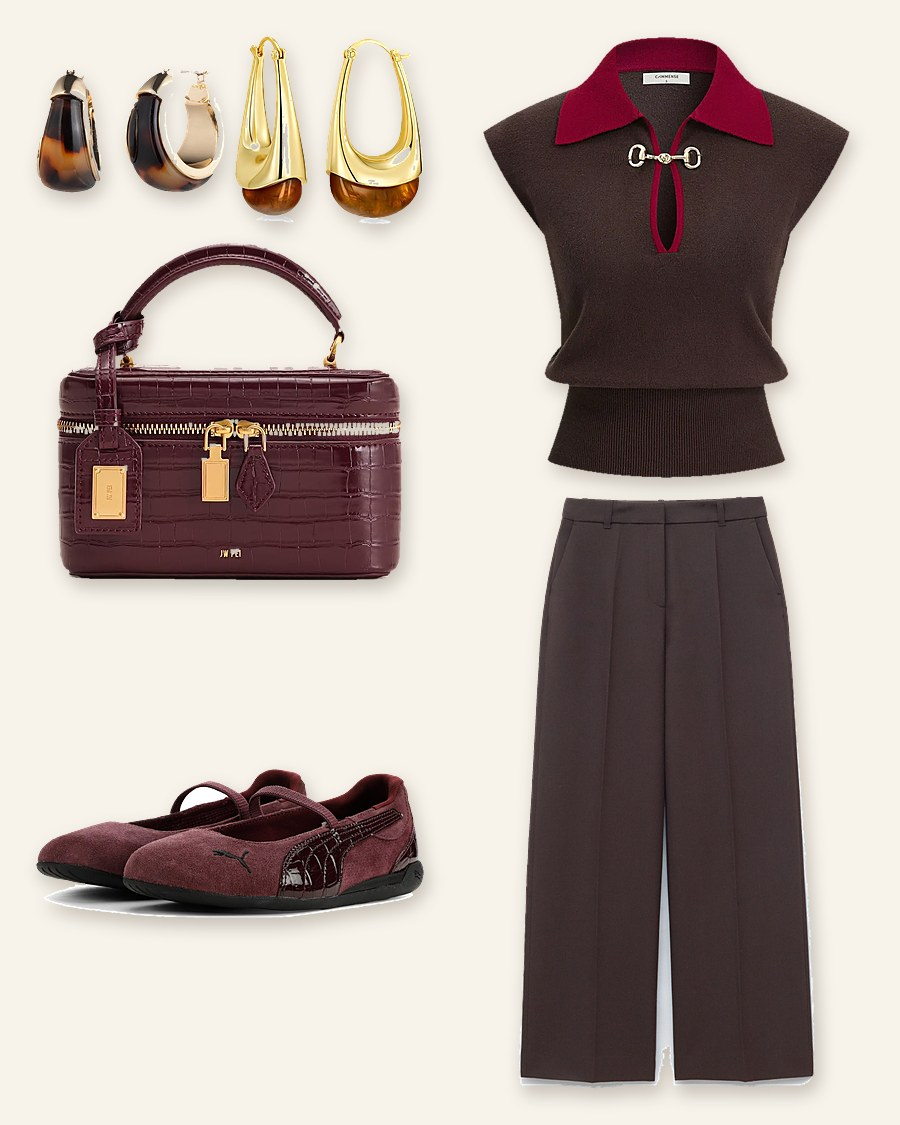
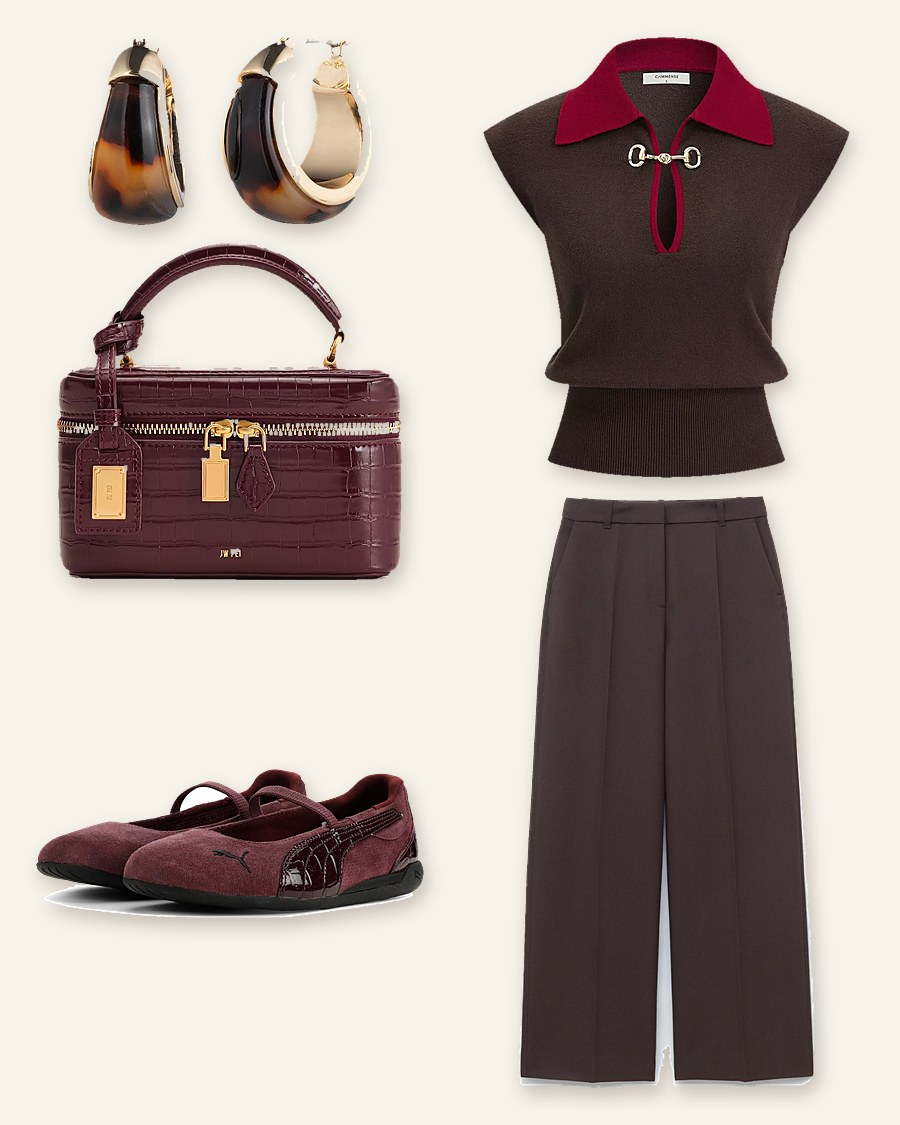
Mary Jane Monday: one pair of earrings
Claude-Session: https://claude.ai/code/session_01FUdN8BrrqRcBgv91ujUewX

Changed region(s): [[0.0311, 0.0311, 0.4978, 0.2178]]

diff --git a/lookbook.js b/lookbook.js
@@ -38,7 +38,7 @@ var LOOKBOOK = [
   {"title": "Cocoa Trench", "slug": "cocoa-trench", "pieces": ["Brown faux-leather peplum top", "Brown faux-leather skirt", "Brown leather trench coat", "Chocolate wedge gladiator sandals", "Brown suede clutch", "Chunky gold amber earrings"], "wear": ["Night out", "Dinner"], "tag": "Night out", "colors": [["Chocolate", "#4A2A1E"], ["Espresso", "#33211B"]], "caption": "A Winter Edit look: brown faux-leather peplum top, brown faux-leather skirt with brown leather trench coat, finished with chocolate wedge gladiator sandals and a brown suede clutch.", "image": "images/lookbook/art-cocoa-trench.jpg", "art": "images/lookbook/art-cocoa-trench.jpg", "alt": "HerStyleVault Edit style board: brown faux-leather peplum top, brown faux-leather skirt, brown leather trench coat, chocolate wedge gladiator sandals, brown suede clutch"},
   {"title": "Navy Stripe Set", "slug": "navy-stripe-set", "pieces": ["Navy striped shirt and black pants set", "Burgundy kitten-heel slingbacks", "Burgundy croc box bag", "Tortoise gold hoop earrings", "Chunky bangle set"], "wear": ["Day out", "Dinner"], "tag": "Day out", "colors": [["Navy", "#1E2B4F"], ["Chocolate", "#4A2A1E"]], "caption": "A Winter Edit look: navy striped shirt and black pants set, finished with burgundy kitten-heel slingbacks and a burgundy croc box bag.", "image": "images/lookbook/art-navy-stripe-set.jpg", "art": "images/lookbook/art-navy-stripe-set.jpg", "alt": "HerStyleVault Edit style board: navy striped shirt and black pants set, burgundy kitten-heel slingbacks, burgundy croc box bag, tortoise gold hoop earrings, chunky bangle set"},
   {"title": "Sporty Chic", "slug": "sporty-chic", "pieces": ["Striped half-zip knit sweater", "Black tie-belt jeans", "Green Nike Air Rift sneakers", "Burgundy croc box bag", "Tortoise gold hoop earrings", "Red Kangol cap", "Green tinted sunglasses"], "wear": ["Day out"], "tag": "Day out", "colors": [["Rust", "#964A28"], ["Black", "#1A1A1A"], ["Forest", "#1E4D36"], ["Chocolate", "#4A2A1E"]], "caption": "A Winter Edit look: striped half-zip knit sweater, black tie-belt jeans, finished with green Nike Air Rift sneakers and a burgundy croc box bag.", "image": "images/lookbook/art-sporty-chic.jpg", "art": "images/lookbook/art-sporty-chic.jpg", "alt": "HerStyleVault Edit style board: striped half-zip knit sweater, black tie-belt jeans, green Nike Air Rift sneakers, burgundy croc box bag, tortoise gold hoop earrings"},
-  {"title": "Mary Jane Monday", "slug": "mary-jane-monday", "pieces": ["Brown knit vest with red collar", "Brown tailored trousers", "Burgundy Mary Jane flats", "Burgundy croc box bag", "Tortoise gold hoop earrings", "Chunky gold amber earrings"], "wear": ["Day out", "Brunch"], "tag": "Day out", "colors": [["Chocolate", "#4A2A1E"]], "caption": "A Winter Edit look: brown knit vest with red collar, brown tailored trousers, finished with burgundy Mary Jane flats and a burgundy croc box bag.", "image": "images/lookbook/art-mary-jane-monday.jpg", "art": "images/lookbook/art-mary-jane-monday.jpg", "alt": "HerStyleVault Edit style board: brown knit vest with red collar, brown tailored trousers, burgundy Mary Jane flats, burgundy croc box bag, tortoise gold hoop earrings"},
+  {"title": "Mary Jane Monday", "slug": "mary-jane-monday", "pieces": ["Brown knit vest with red collar", "Brown tailored trousers", "Burgundy Mary Jane flats", "Burgundy croc box bag", "Tortoise gold hoop earrings"], "wear": ["Day out", "Brunch"], "tag": "Day out", "colors": [["Chocolate", "#4A2A1E"]], "caption": "A Winter Edit look: brown knit vest with red collar, brown tailored trousers, finished with burgundy Mary Jane flats and a burgundy croc box bag.", "image": "images/lookbook/art-mary-jane-monday.jpg", "art": "images/lookbook/art-mary-jane-monday.jpg", "alt": "HerStyleVault Edit style board: brown knit vest with red collar, brown tailored trousers, burgundy Mary Jane flats, burgundy croc box bag, tortoise gold hoop earrings"},
   {"title": "Bordeaux Bomber", "slug": "bordeaux-bomber", "pieces": ["Burgundy suede-look mock neck mini dress", "Burgundy leather bomber jacket", "Burgundy kitten-heel slingbacks", "Mulberry wand clutch", "Chunky gold amber earrings", "Burgundy dial gold watch"], "wear": ["Date night", "Dinner", "Birthday"], "tag": "Date night", "colors": [["Chocolate", "#4A2A1E"], ["Taupe", "#8B7B6B"]], "caption": "A Winter Edit look: burgundy suede-look mock neck mini dress with burgundy leather bomber jacket, finished with burgundy kitten-heel slingbacks and a mulberry wand clutch.", "image": "images/lookbook/art-bordeaux-bomber.jpg", "art": "images/lookbook/art-bordeaux-bomber.jpg", "alt": "HerStyleVault Edit style board: burgundy suede-look mock neck mini dress, burgundy leather bomber jacket, burgundy kitten-heel slingbacks, mulberry wand clutch, chunky gold amber earrings"},
   {"title": "Fringe Benefits", "slug": "fringe-benefits", "pieces": ["Brown ruched pleated-hem mini dress", "Chocolate wedge gladiator sandals", "Brown suede clutch", "Tortoise gold hoop earrings"], "wear": ["Date night", "Dinner", "Night out"], "tag": "Date night", "colors": [["Chocolate", "#4A2A1E"]], "caption": "A Winter Edit look: brown ruched pleated-hem mini dress, finished with chocolate wedge gladiator sandals and a brown suede clutch.", "image": "images/lookbook/art-fringe-benefits.jpg", "art": "images/lookbook/art-fringe-benefits.jpg", "alt": "HerStyleVault Edit style board: brown ruched pleated-hem mini dress, chocolate wedge gladiator sandals, brown suede clutch, tortoise gold hoop earrings"},
   {"title": "Pleats Under the Trench", "slug": "pleats-under-the-trench", "pieces": ["Brown knit vest with red collar", "Cream and brown pleated midi skirt", "Brown leather trench coat", "Burgundy kitten-heel slingbacks", "Cognac suede hobo bag", "Tortoise gold hoop earrings"], "wear": ["Day out", "Brunch", "Baby shower"], "tag": "Day out", "colors": [["Chocolate", "#4A2A1E"], ["Gray", "#8B8B8B"], ["Olive", "#5C5A3A"]], "caption": "A Winter Edit look: brown knit vest with red collar, cream and brown pleated midi skirt with brown leather trench coat, finished with burgundy kitten-heel slingbacks and a cognac suede hobo bag.", "image": "images/lookbook/art-pleats-under-the-trench.jpg", "art": "images/lookbook/art-pleats-under-the-trench.jpg", "alt": "HerStyleVault Edit style board: brown knit vest with red collar, cream and brown pleated midi skirt, brown leather trench coat, burgundy kitten-heel slingbacks, cognac suede hobo bag"},

diff --git a/style-11-looks.js b/style-11-looks.js
@@ -4090,21 +4090,9 @@ window.STYLE11_LOOKS = [
     "url": "https://www.dillards.com/p/lauren-ralph-lauren-gold-tone-tortoise-hoop-earrings/521740373?googleShop=Y&utm_source=Pinterest&utm_medium=organic&epik=dj0yJnU9Wi1aTndOYlExeGxrckNTakNUZ1FSWUJWSFRGM01od1kmcD0wJm49dnZMdUJ4b291NGR4RzdqUFpTOHMtZyZ0PUFBQUFBR3NENWFn",
     "affiliate": false,
     "box": [
-     3.3,
-     5.6,
-     22.3,
-     12.2
-    ]
-   },
-   {
-    "name": "Chunky gold amber earrings",
-    "type": "jewelry",
-    "url": "https://www.amazon.com/dp/B0DCR2V2H7?ref_=cm_sw_r_cp_ud_dp_TYHPN4RQ57BAPNE8G1X4",
-    "affiliate": false,
-    "box": [
-     25.4,
+     9.1,
      2.7,
-     22.3,
+     32.9,
      17.9
     ]
    }
